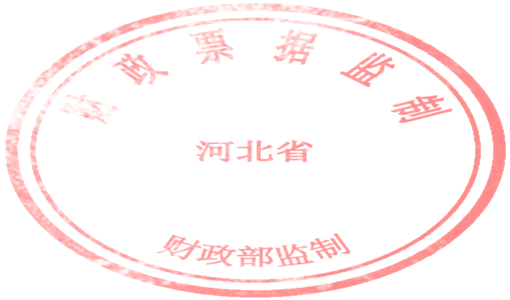
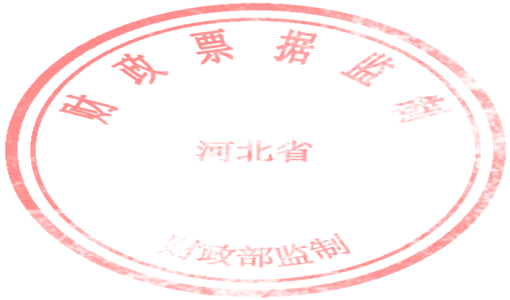
add generate_seal.py

diff --git a/medical-invoice/index.html b/medical-invoice/index.html
@@ -194,8 +194,8 @@
       <div class="fl m-l14 w160 lh19"><span class="orange">复核人：</span>何利</div>
       <div class="fl m-l14 w250 lh19"><span class="orange">收款人：</span>何利</div>
     </div>
-      <div class="invoice-table-footer ovh black">
-      <div class="fl m-l14 w350 lh19"><span class="orange">真伪查验、报销入账反馈，请登录xxx省财政电子票据公共服务平台（http:xxxxxxx）</div>
+    <div class="invoice-table-footer ovh black">
+      <div class="fl m-l14 w350 lh19"><span class="orange">真伪查验、报销入账反馈，请登录xxx省财政电子票据公共服务平台（http:xxxxxxx）</span></div>
     </div>
   </div>
 </body>

diff --git a/scripts/generate_seal.py b/scripts/generate_seal.py
@@ -292,26 +292,28 @@ class Stamp:
 
 
 if __name__ == "__main__":
-    # words_up = "深圳市宝安区中医院"
-    # stamp = Stamp(
-    #     words_up=words_up,
-    #     words_mid="电子票据专用章",
-    #     save_path=f"{words_up}.png",
-    # )
-
-    words_up = "财政票据监制"
+    words_up = "深圳市宝安区中医院"
     stamp = Stamp(
         words_up=words_up,
-        words_mid="河北省",
-        words_down="财政部监制",
+        words_mid="电子票据专用章",
         save_path=f"{words_up}.png",
-        angle_up=160,
-        font_size_up=60,
-        font_size_mid=40,
-        font_size_down=40,
+        angle_up=200,
+        font_size_mid=50,
     )
+    stamp.draw_stamp()
 
-    #stamp.draw_stamp()
-    stamp.draw_title_stamp()
+    # words_up = "财政票据监制"
+    # stamp = Stamp(
+    #     words_up=words_up,
+    #     words_mid="河北省",
+    #     words_down="财政部监制",
+    #     save_path=f"{words_up}.png",
+    #     angle_up=160,
+    #     font_size_up=60,
+    #     font_size_mid=40,
+    #     font_size_down=40,
+    # )
+    # stamp.draw_title_stamp()
+
     stamp.show_stamp()
     stamp.save_stamp()
